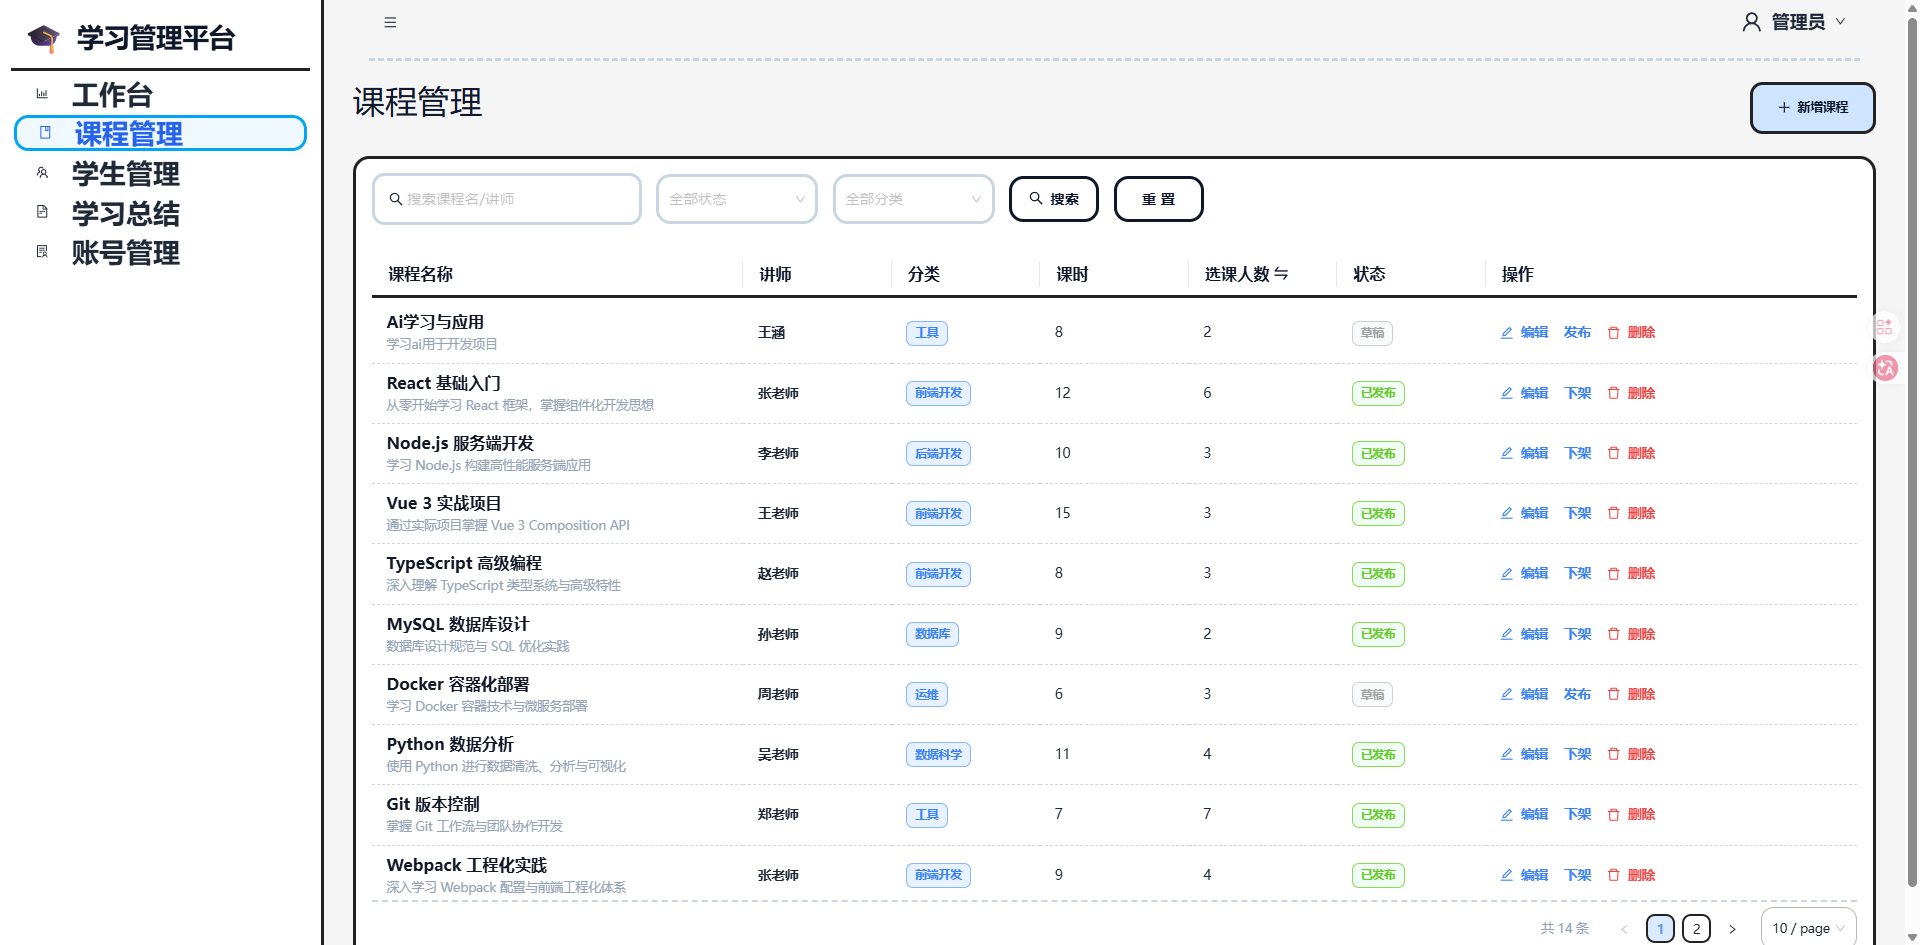
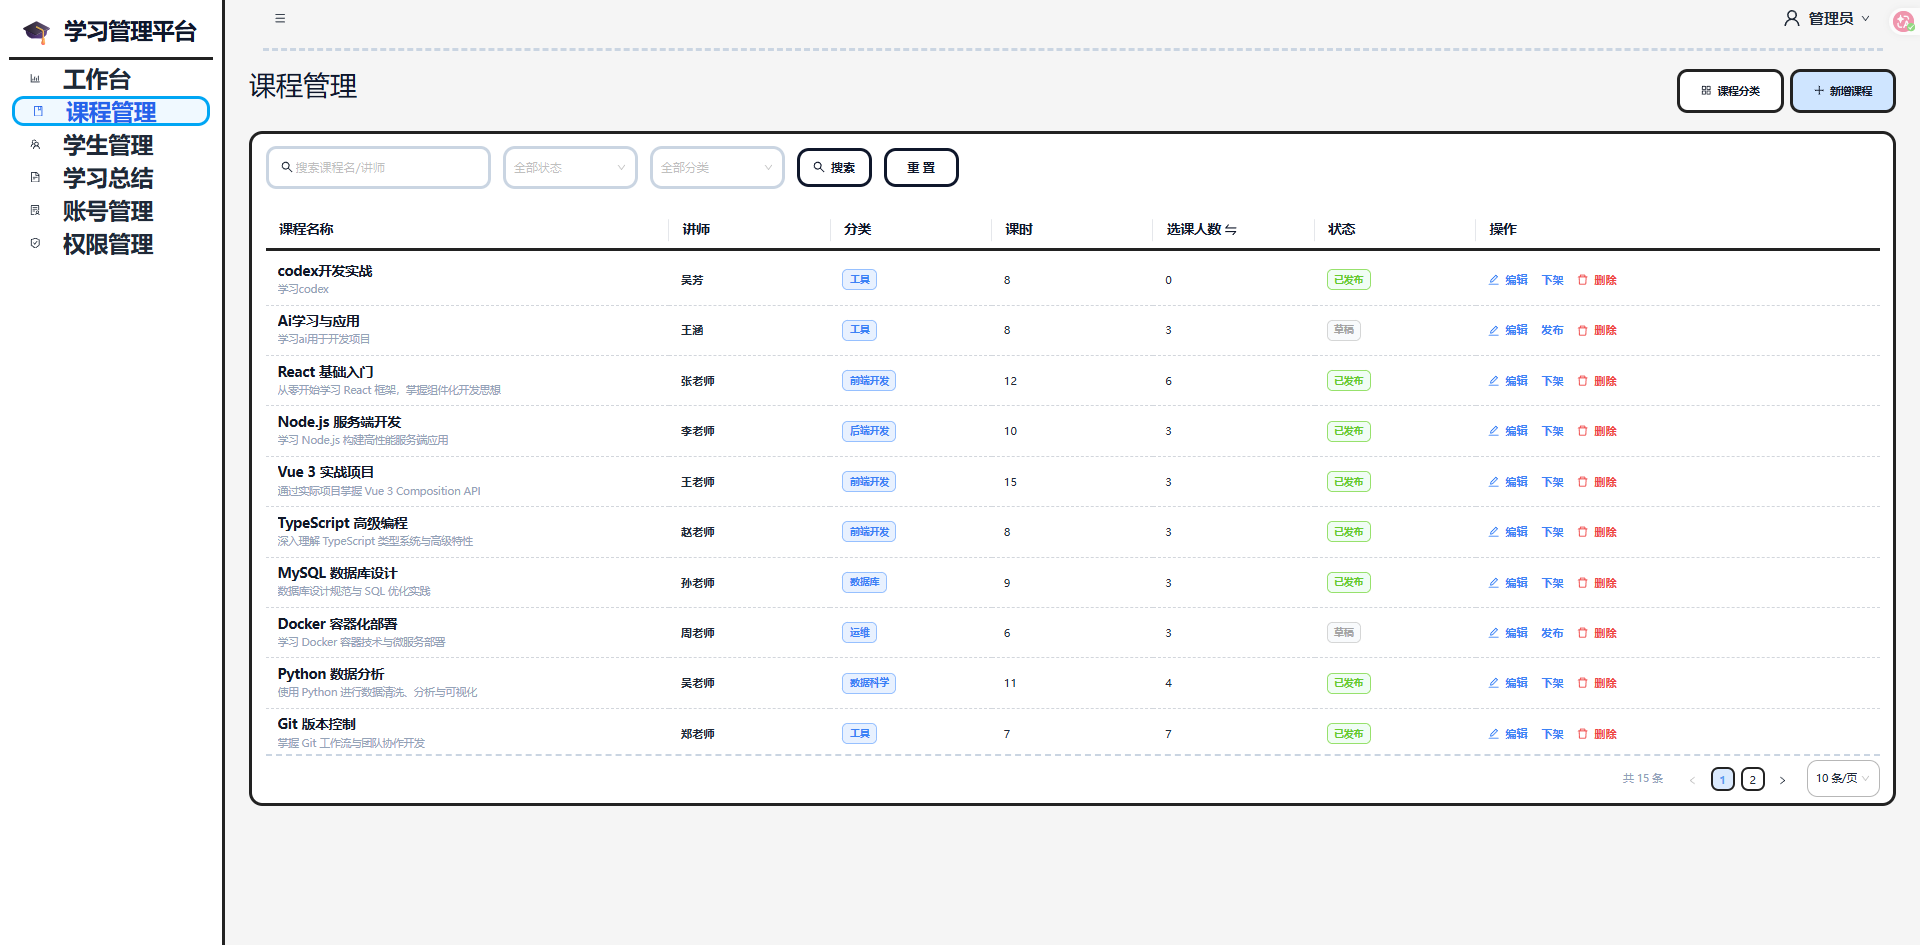
docs: README.md效果图修改

diff --git a/client/src/App.tsx b/client/src/App.tsx
@@ -4,6 +4,7 @@
 要点：统一品牌色、圆角、控件尺寸与分页等组件样式，搭配全局 CSS 微调
 */
 import { ConfigProvider, App as AntdApp } from 'antd';
+import zhCN from 'antd/locale/zh_CN';
 import { AppRouterProvider } from './router';
 import 'antd/dist/reset.css';
 import './style/base.css';
@@ -13,6 +14,7 @@ function App() {
   return (
     // 配置主题
     <ConfigProvider
+      locale={zhCN}
       theme={{
         token: {
           colorPrimary: '#5b9cf0',

diff --git a/README.md b/README.md
@@ -30,6 +30,10 @@ EduFlow 是一个前后端分离的在线课程后台管理系统，覆盖登录
 <img src="./docs/images/image6.png" />
 <img src="./docs/images/image7.png" />
 
+### 权限管理
+<img src="./docs/images/image8.png" />
+
+
 ## 技术栈
 
 **前端**
